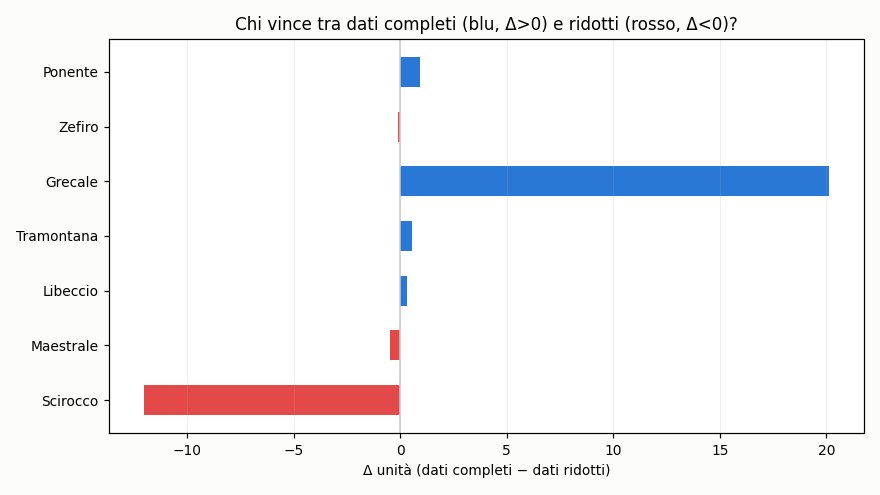
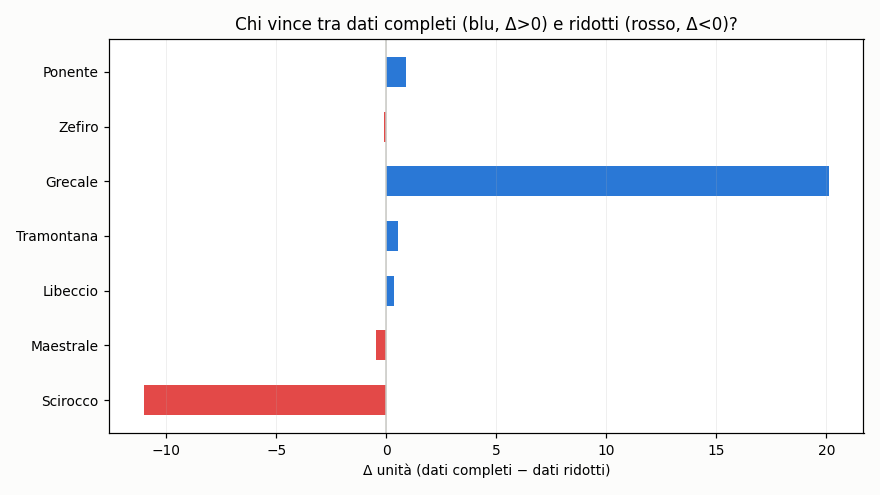
aggiornamento 2026-07-27 17:36 UTC

diff --git a/README.md b/README.md
@@ -37,9 +37,9 @@ scala in unità). Non indichiamo quale.
 
 ## Grafici
 
-![Coppie: dati completi vs ridotti](https://raw.githubusercontent.com/Kitem19/ippica-track-record/main/charts/equity_pairs.png?v=3754bdd0)
+![Coppie: dati completi vs ridotti](https://raw.githubusercontent.com/Kitem19/ippica-track-record/main/charts/equity_pairs.png?v=725210bd)
 
-![Delta per coppia](https://raw.githubusercontent.com/Kitem19/ippica-track-record/main/charts/coppie_delta.png?v=b40fcffd)
+![Delta per coppia](https://raw.githubusercontent.com/Kitem19/ippica-track-record/main/charts/coppie_delta.png?v=e8300bd7)
 
 ### Come leggere i grafici
 
@@ -56,7 +56,7 @@ scala in unità). Non indichiamo quale.
 
 _Poche giornate: numeri ancora rumorosi, si conclude a fine fase (31/7)._
 
-- **Scirocco**: dati ridotti avanti di 12,0u — qui gli extra non aiutano
+- **Scirocco**: dati ridotti avanti di 11,0u — qui gli extra non aiutano
 - **Maestrale**: in sostanziale pareggio — troppo presto per dire
 - **Libeccio**: in sostanziale pareggio — troppo presto per dire
 - **Tramontana**: in sostanziale pareggio — troppo presto per dire
@@ -69,21 +69,21 @@ _Poche giornate: numeri ancora rumorosi, si conclude a fine fase (31/7)._
 | Sistema | Cassa (u) | P/L (u) | Selezioni | Escluse | Stato |
 |---|---|---|---|---|---|
 | Grecale | 19,9 | -0,1 | 320 | 4 | 🟢 |
-| Scirocco-B | 12,0 | -8,0 | 249 | 0 | 🟢 |
-| Maestrale-B | 0,0 | -20,0 | 100 | 251 | 🛑 |
+| Scirocco-B | 11,0 | -9,0 | 250 | 0 | ⏸ |
+| Maestrale-B | 0,0 | -20,0 | 100 | 252 | 🛑 |
 | Ponente | 0,0 | -20,0 | 213 | 37 | 🛑 |
-| Scirocco | 0,0 | -20,1 | 80 | 276 | 🛑 |
+| Scirocco | 0,0 | -20,1 | 80 | 277 | 🛑 |
 | Grecale-B | 0,0 | -20,2 | 137 | 183 | 🛑 |
-| Tramontana | 0,0 | -20,3 | 45 | 317 | 🛑 |
+| Tramontana | 0,0 | -20,3 | 45 | 318 | 🛑 |
 | Zefiro-B | 0,0 | -20,5 | 143 | 80 | 🛑 |
 | Maestrale | 0,0 | -20,5 | 104 | 271 | 🛑 |
-| Zefiro | 0,0 | -20,6 | 268 | 13 | 🛑 |
+| Zefiro | 0,0 | -20,6 | 268 | 14 | 🛑 |
 | Libeccio | 0,0 | -20,6 | 181 | 177 | 🛑 |
-| Tramontana-B | 0,0 | -20,8 | 324 | 26 | 🛑 |
-| Libeccio-B | 0,0 | -20,9 | 119 | 193 | 🛑 |
-| Ponente-B | 0,0 | -21,0 | 63 | 97 | 🛑 |
+| Tramontana-B | 0,0 | -20,8 | 324 | 27 | 🛑 |
+| Libeccio-B | 0,0 | -20,9 | 119 | 194 | 🛑 |
+| Ponente-B | 0,0 | -21,0 | 63 | 98 | 🛑 |
 
-_Aggiornato: 27/07 19:31_
+_Aggiornato: 27/07 19:36_
 ---
 *Nessuna delle informazioni qui pubblicate costituisce consiglio di gioco.
 Il gioco può causare dipendenza — 18+.*
